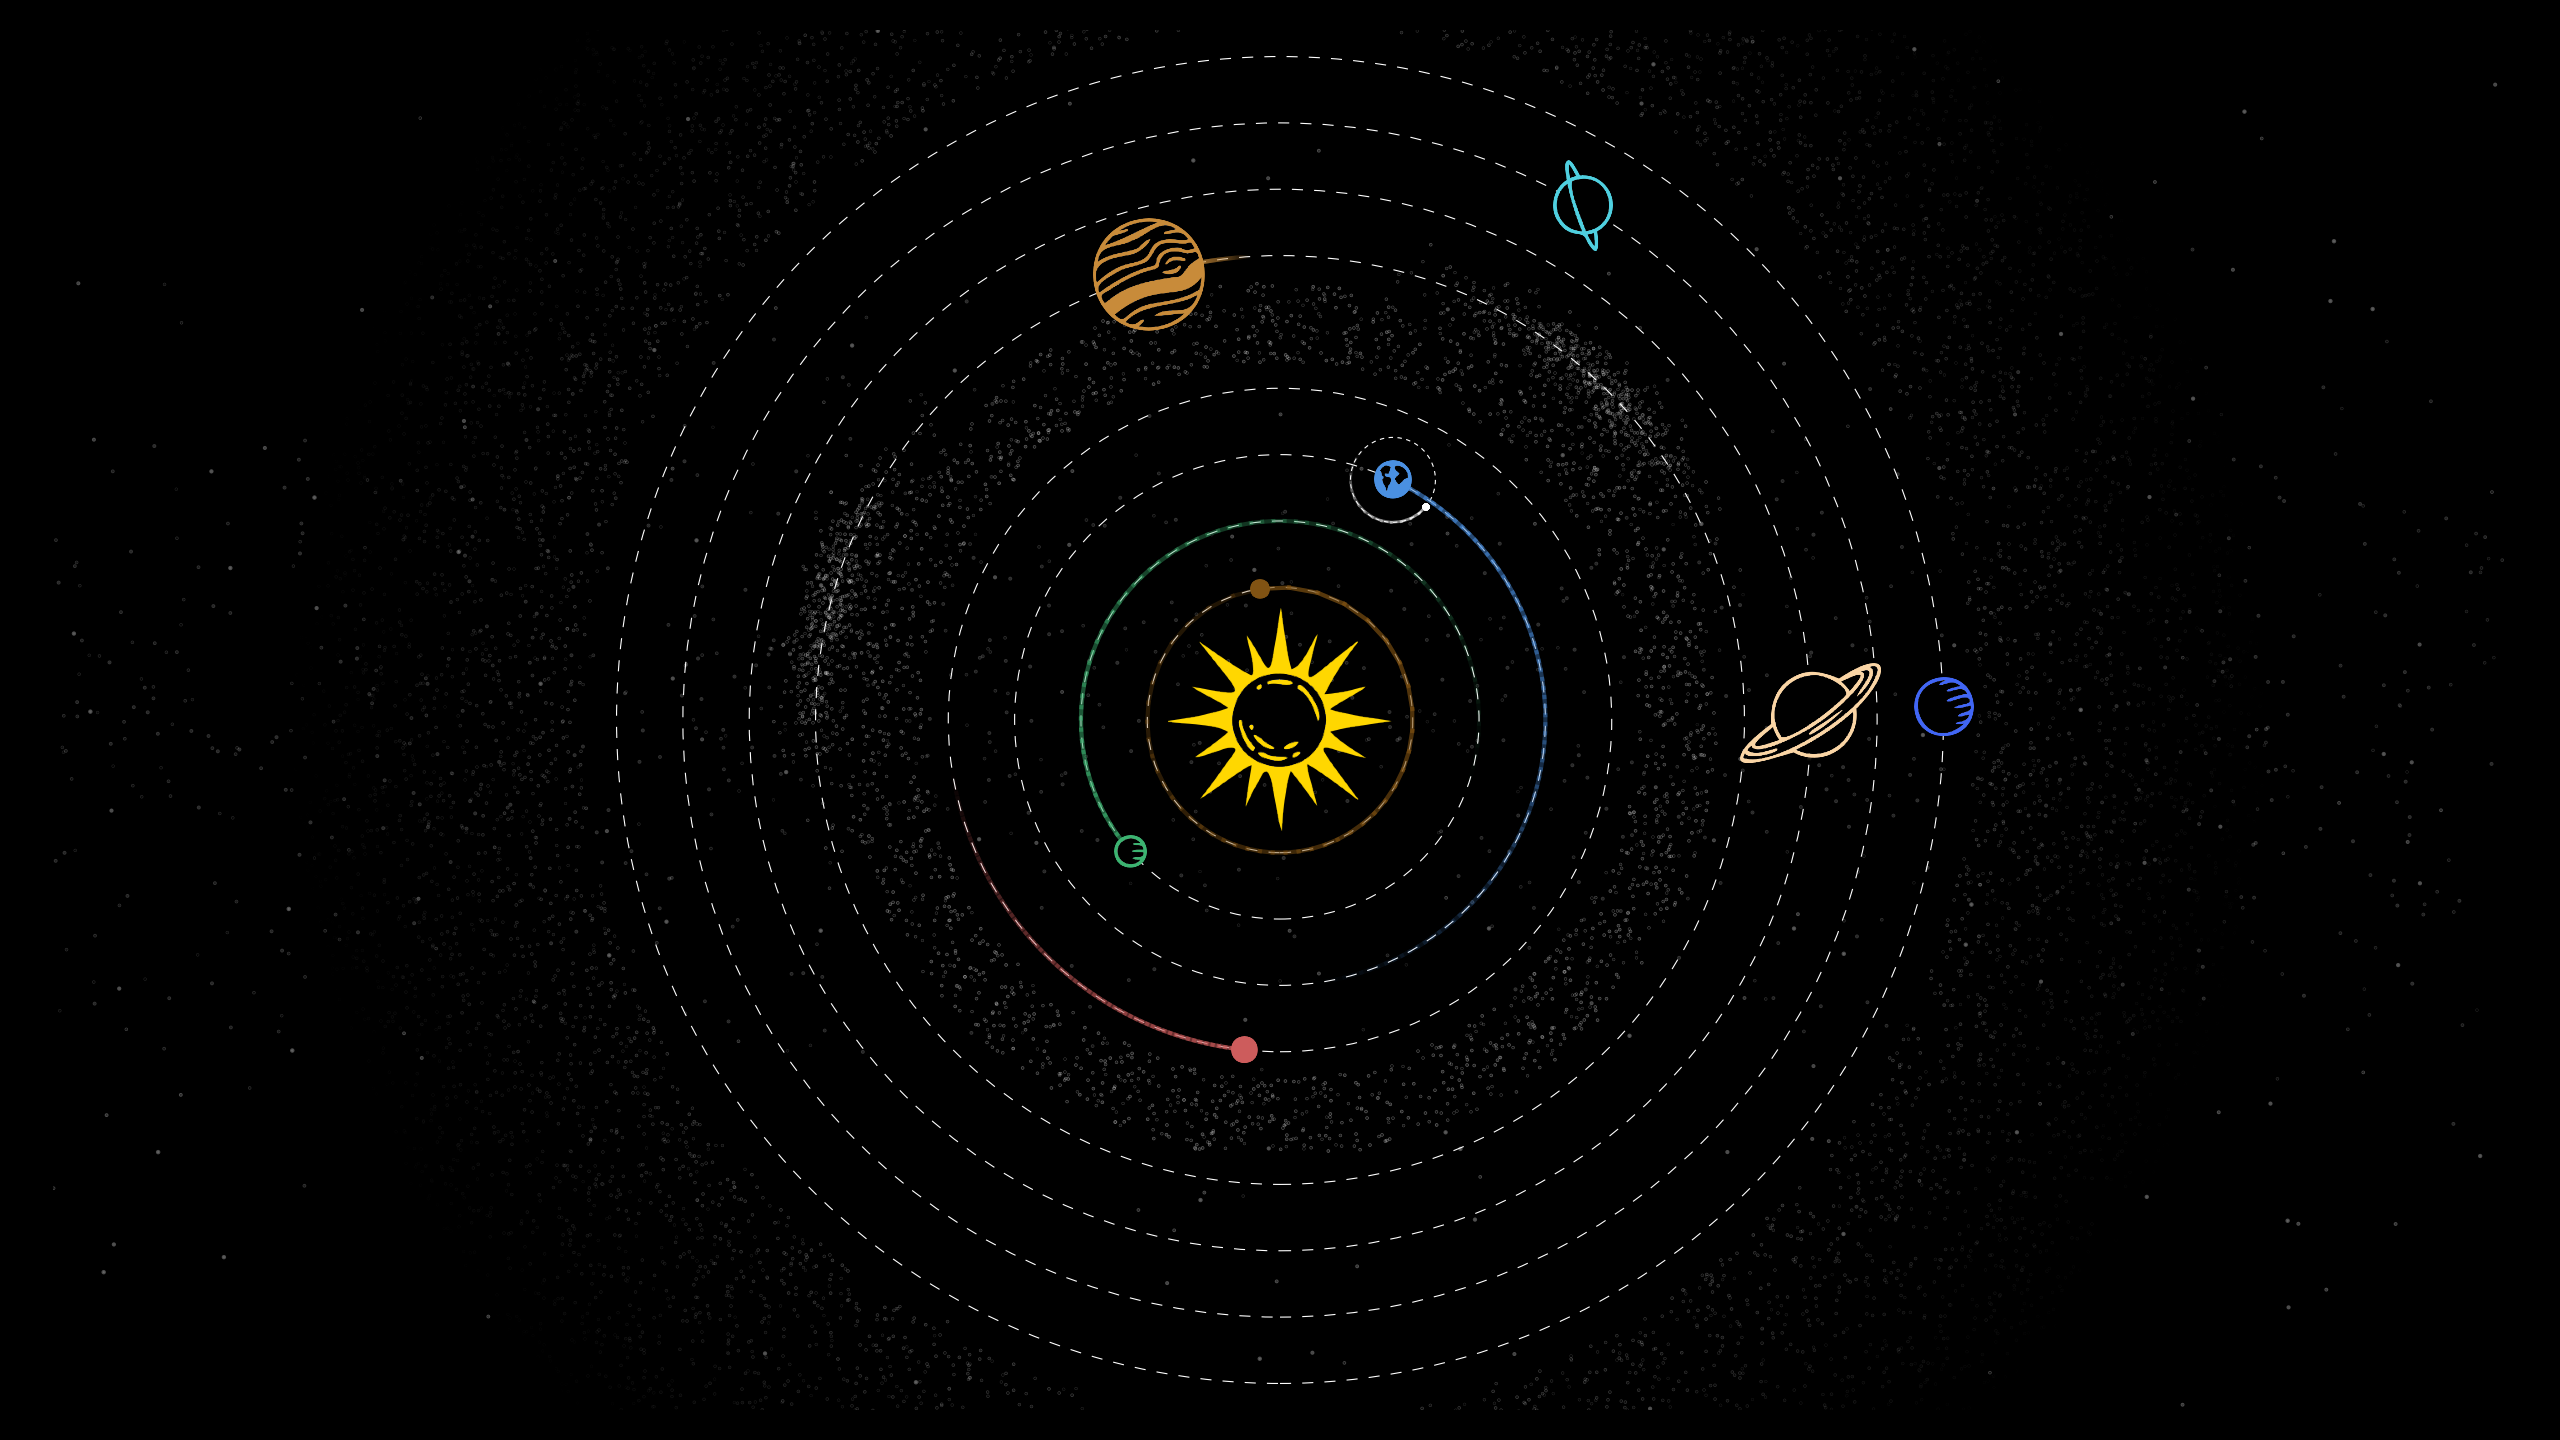
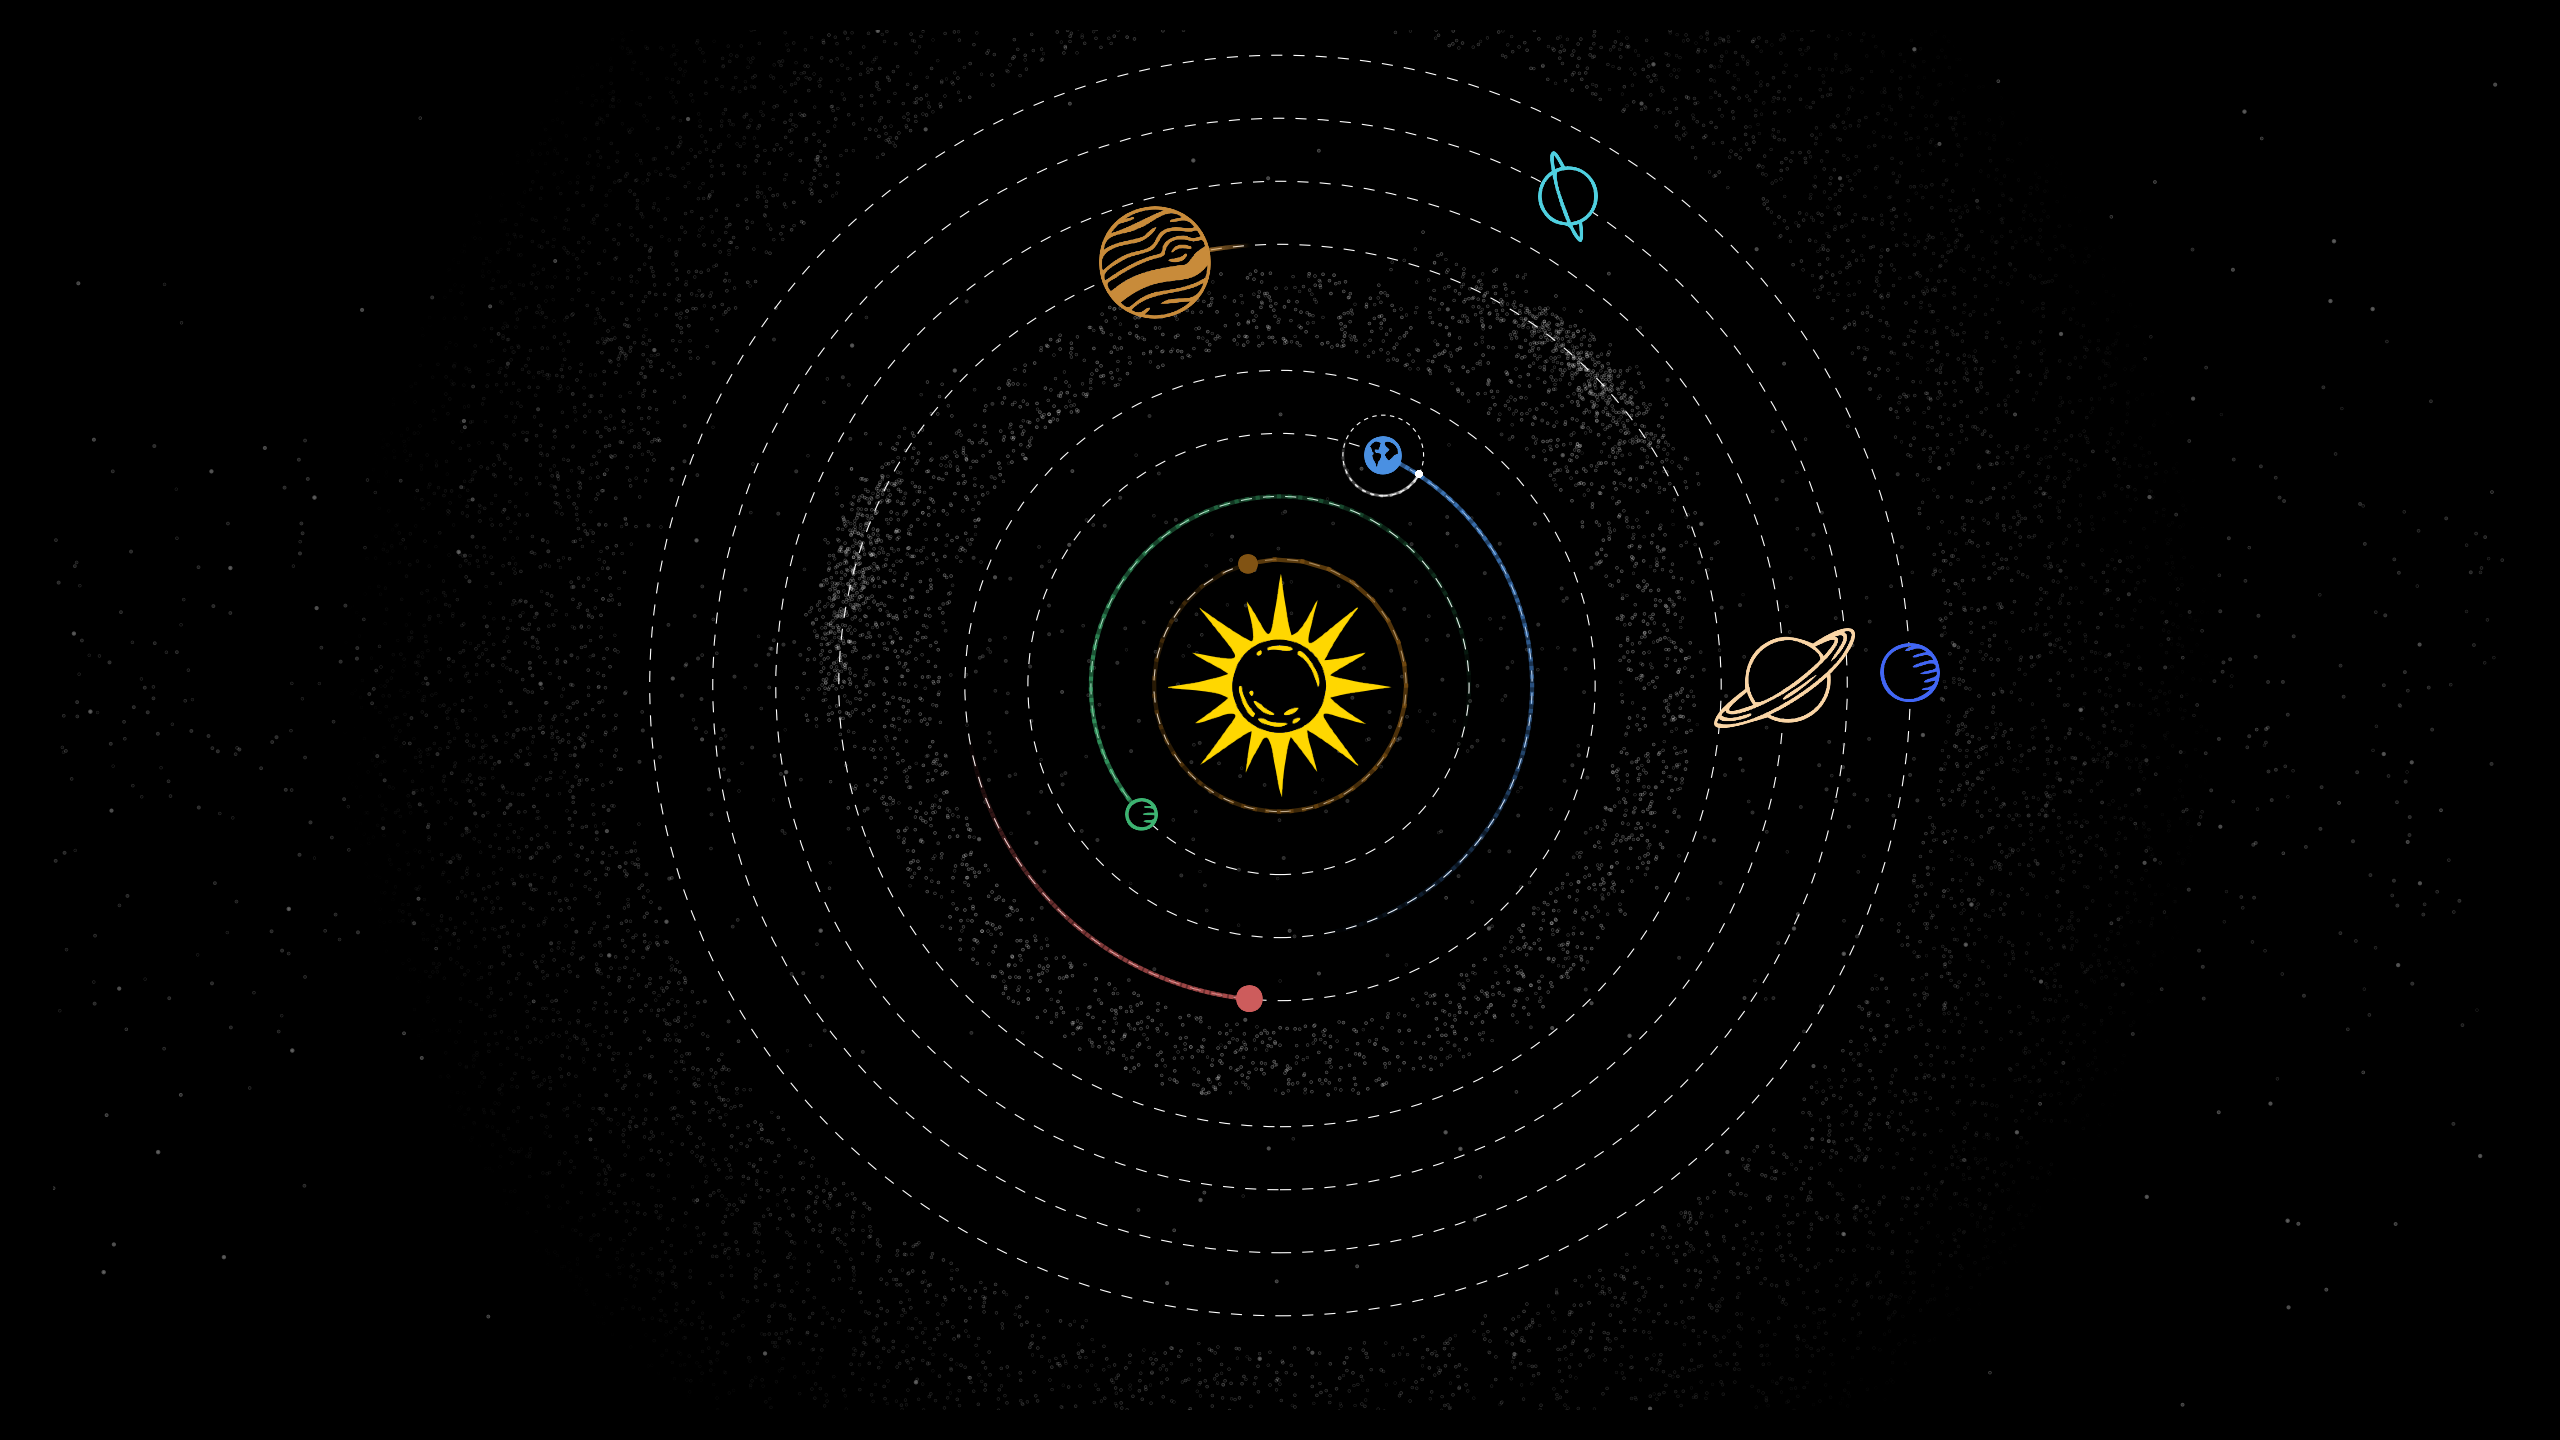
Taskbar height offset and DPI scaling fix

diff --git a/solarmap.py b/solarmap.py
@@ -15,6 +15,9 @@ import numpy as np
 #TODO: Comets? (Halley, Hale-Bopp)
 
 #Visual customizations
+#TODO: Asteroid belt fade out towards edges
+#TODO: Match DPI for different resolutions
+#TODO: 41 px offset from bottom (and top?)
 #TODO: Planet labels working with different DPIs
 #TODO: Optional background stars
 #TODO: Optional colors to rings
@@ -98,14 +101,24 @@ longitudes = {planet.name: EclipticLongitude(planet, utc) for planet in planets}
 #   Set wallpaper resolution
 width_px = 2560
 height_px = 1440
-dpi = 200 # Set planet size by changing dpi
+
+reference_height = 1440
+reference_dpi = 200
+dpi = int(height_px * (reference_dpi / reference_height))
 
 fig, ax = plt.subplots(figsize=(1, 1))
 fig.set_size_inches(width_px/dpi, height_px/dpi)
 fig.patch.set_facecolor('black')
 ax.set_facecolor('black')
 cx, cy = 0.0, 0.0
-r_base = 1.0
+r_base = 0.95
+
+# Taskbar offset upwards percentage, so image is not behind taskbar
+taskbar_offset = 0.025
+
+# Shift center up by 5% of y-axis range
+cy_offset = taskbar_offset * 2.6  # 2.6 is your y-axis range (from -1.3 to 1.3)
+cy = cy + cy_offset
 
 
 
